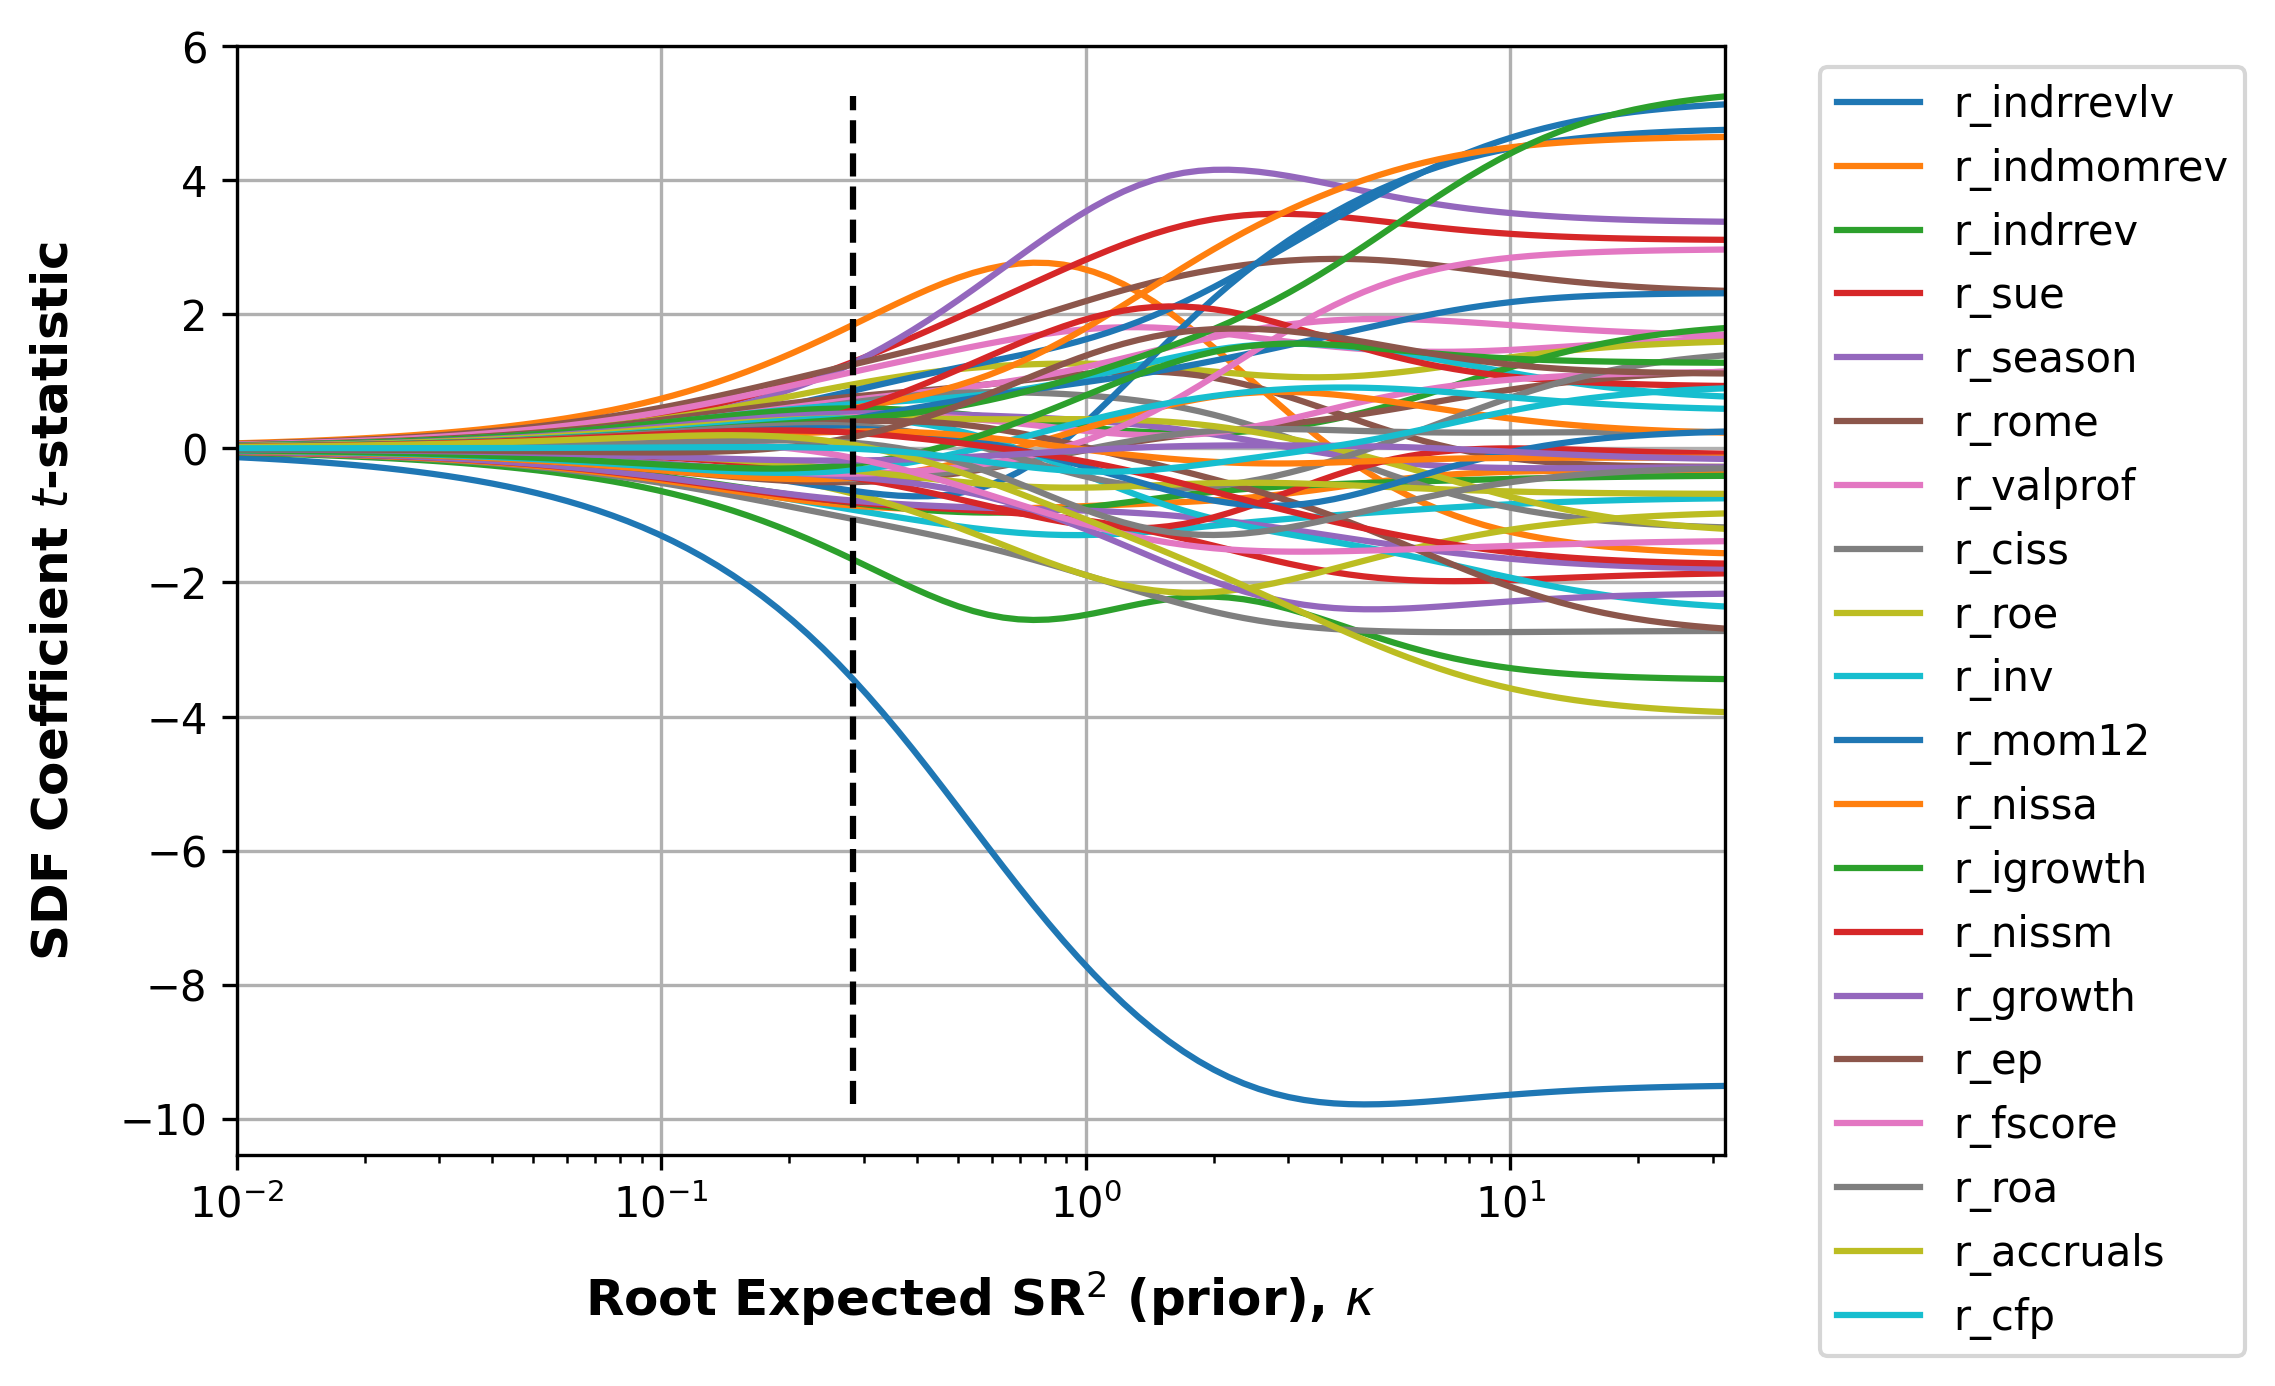
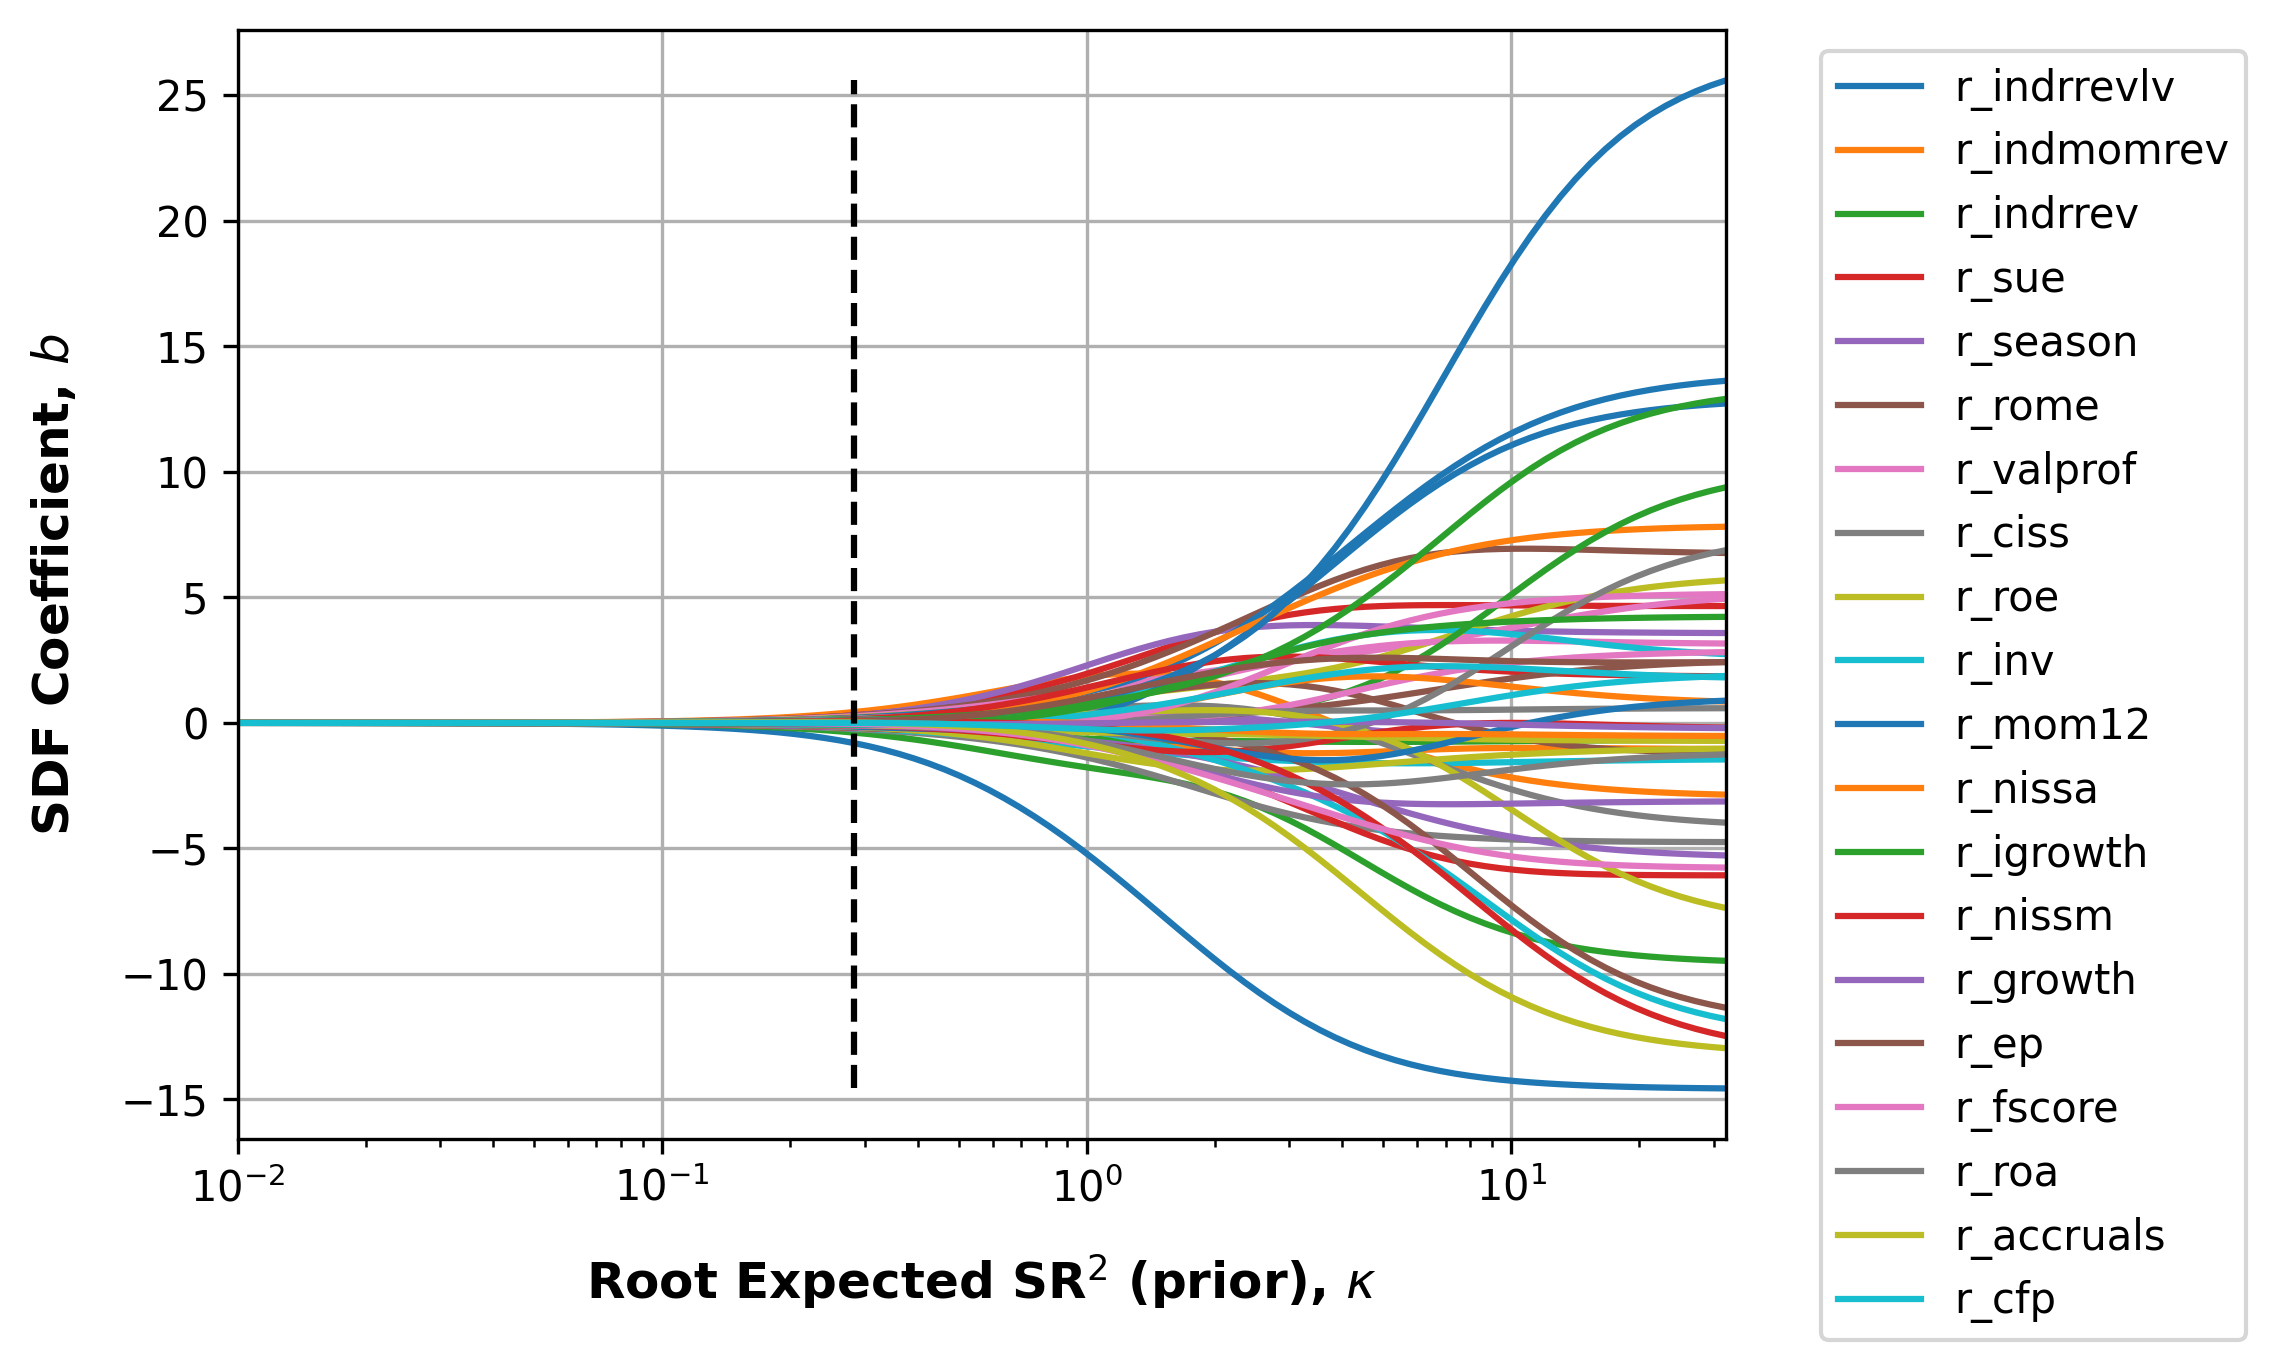
init

diff --git a/SCS_L2est.py b/SCS_L2est.py
@@ -2,12 +2,8 @@ import numpy as np
 import pandas as pd
 from datetime import datetime
 import matplotlib.pyplot as plt
-try:
-    from python_code.utils import demarket, regcov, l2est
-    from python_code.cross_validate import cross_validate
-except ModuleNotFoundError:
-    from utils import demarket, regcov, l2est
-    from cross_validate import cross_validate
+from utils import demarket, regcov, l2est
+from cross_validate import cross_validate
 
 def SCS_L2est(dates, re, market, freq, anomalies, parameters):
     """
@@ -324,7 +320,7 @@ def plot_dof(df, x, p):
         plt.show()
 
     if p['results_export']:
-        plt.savefig('python_code/results_export/degrees_of_freedom.png', dpi=300, bbox_inches='tight')
+        plt.savefig('results_export/degrees_of_freedom.png', dpi=300, bbox_inches='tight')
 
 def plot_L2coefpaths(x, phi, iL2opt, anomalies, ylbl, p):
     """
@@ -385,7 +381,10 @@ def plot_L2coefpaths(x, phi, iL2opt, anomalies, ylbl, p):
         plt.show()
 
     if p['results_export']:
-        plt.savefig('python_code/results_export/coefficients_paths.png', dpi=300, bbox_inches='tight')
+        if ylbl == 'SDF Coefficient, $b$':
+            plt.savefig('results_export/coefficients_paths.png', dpi=300, bbox_inches='tight')
+        elif ylbl == 'SDF Coefficient $t$-statistic':
+            plt.savefig('results_export/tstats_paths.png', dpi=300, bbox_inches='tight')
 
 
 def plot_L2cv(x, objL2, p):
@@ -432,7 +431,7 @@ def plot_L2cv(x, objL2, p):
         plt.show()
 
     if p['results_export']:
-        plt.savefig('python_code/results_export/cross_validation.png', dpi=300, bbox_inches='tight')
+        plt.savefig('results_export/cross_validation.png', dpi=300, bbox_inches='tight')
 
 
 
@@ -470,4 +469,4 @@ def table_L2coefs(phi, se, anomalies, p):
 
     # export as a latex formatted table
     if p['results_export']:
-        df.to_latex('python_code/results_export/coefficients_table.tex', index=False)
+        df.to_latex('results_export/coefficients_table.tex', index=False)

diff --git a/scs_main.py b/scs_main.py
@@ -25,7 +25,7 @@ oos_test_date = datetime.strptime('01JAN2005', '%d%b%Y')
 run_folder = datetime.today().strftime('%d%b%Y').upper() + "/"
 
 # Paths
-projpath = 'python_code/'
+projpath = ''
 datapath = os.path.join(projpath, 'Data')
 instrpath = os.path.join(datapath, 'instruments')
 

diff --git a/README.md b/README.md
@@ -47,14 +47,25 @@ Comparison of original results from the paper and replication results from the P
 #### Replicated
 ![Replicated Degrees of Freedom Plot](results_export/degrees_of_freedom.png)
 
+## SDF Coefficients
+
 ### Coefficient Paths
 > TODO
 
 #### Original
-![Original Coefficient Paths Plot](results_export/coefficient_paths_original.png)
+![Original Coefficient Paths Plot](results_export/coefficients_paths_original.png)
 
 #### Replicated
 ![Replicated Coefficient Paths Plot](results_export/coefficients_paths.png)
+
+### t-Statistic Paths
+> TODO
+
+#### Original
+![Original Coefficient Paths Plot](results_export/tstats_paths_original.png)
+
+#### Replicated
+![Replicated Coefficient Paths Plot](results_export/tstats_paths.png)
 
 
 
